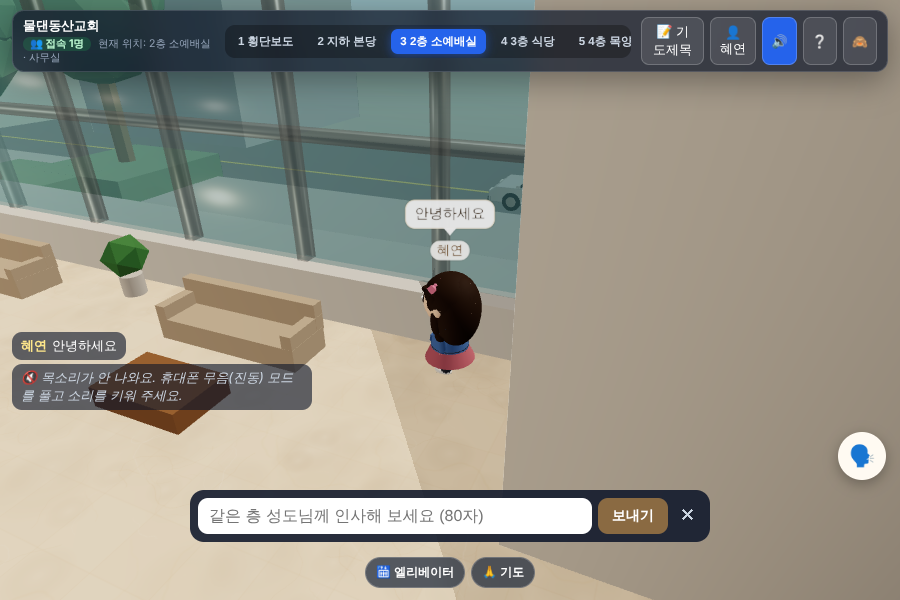
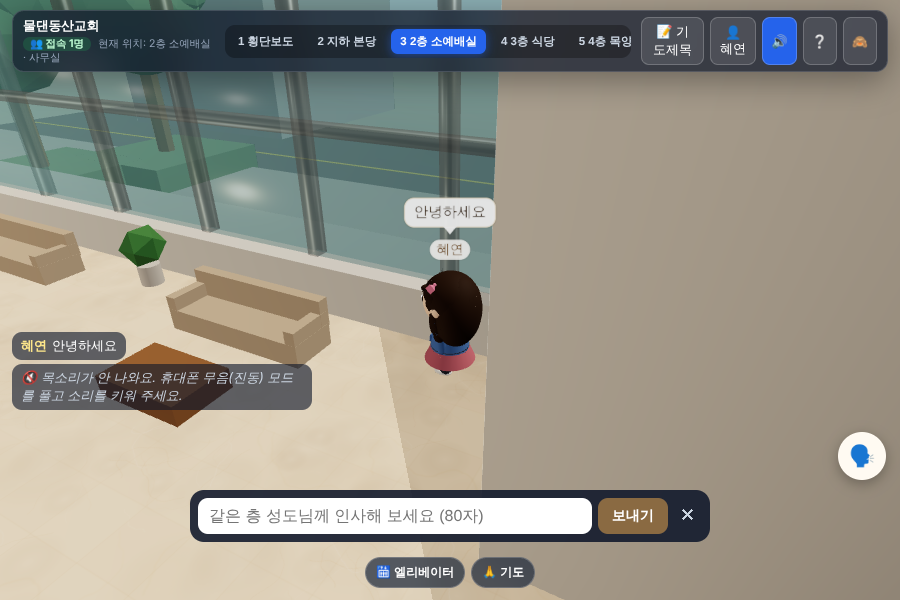
카카오톡에서 열면 자동으로 기본 브라우저로 넘김 (실패하면 한 번 다시 불러와 안내 단추)
Claude-Session: https://claude.ai/code/session_01Vz1QJf3UdmpjXu7m5EnhFF

diff --git a/index.html b/index.html
@@ -4,6 +4,24 @@
   <meta charset="UTF-8">
   <meta name="viewport" content="width=device-width, initial-scale=1.0, maximum-scale=1.0, user-scalable=no, viewport-fit=cover, interactive-widget=resizes-content">
   <title>물댄동산교회 가상 성전 메타버스 투어</title>
+  <script>
+    // 카카오톡 안에서 링크를 열면 목소리·마이크가 막혀서, 들어오자마자 기본 브라우저(크롬·사파리)로 넘김.
+    // 한 번만 시도(못 넘어가고 다시 돌아오면 화면 안 '브라우저로 열기' 단추로 안내).
+    (function () {
+      try {
+        if (!/KAKAOTALK/i.test(navigator.userAgent || '')) return;
+        if (sessionStorage.getItem('mdc_out_tried')) return;
+        sessionStorage.setItem('mdc_out_tried', '1'); window.__mdcOutTried = true;
+        location.href = 'kakaotalk://web/openExternal?url=' + encodeURIComponent(location.href);
+        // 못 넘어간 경우 이 화면의 나머지 불러오기가 끊길 수 있어서, 본 화면 코드가 안 돌았으면 한 번 다시 불러옴(이번엔 안 넘김)
+        var tries = 0, chk = setInterval(function () {
+          tries++;
+          if (window.__mdcMain || tries > 40) { clearInterval(chk); return; }
+          if (document.readyState === 'complete' && !document.hidden) { clearInterval(chk); location.reload(); }
+        }, 500);
+      } catch (e) {}
+    })();
+  </script>
   <style>
     * {
       box-sizing: border-box;
@@ -458,6 +476,7 @@
   </div>
 
   <script type="module">
+    window.__mdcMain = true;   // 본 화면 코드가 돌기 시작함 (카카오톡 넘기기 실패 확인용)
     import * as THREE from 'three'; window.__RC = THREE.Raycaster;
     import {GLTFLoader} from './vendor/three/loaders/GLTFLoader.js';
     import {OrbitControls} from './vendor/three/controls/OrbitControls.js';
@@ -3512,6 +3531,7 @@
       if (to) location.href = to; else sysLine('화면 아래(또는 위) ⋯ 메뉴에서 "Safari로 열기"를 눌러 주세요.');
     }
     Speak.outsideUrl = outsideUrl;
+    if (IN_APP) setTimeout(() => (Speak.told = Object.assign(Speak.told || {}, { unsupported: true })) && outsideLine(window.__mdcOutTried ? '🌐 브라우저로 열었어요. 안 열렸으면 단추를 눌러 주세요 (앱 안에서는 목소리가 안 나와요).' : '🌐 앱 안에서는 목소리가 안 나와요. 크롬·사파리로 열어 주세요.'), 2500);
     function outsideLine(text) {
       const d = document.createElement('div'); d.className = 'chat-line sys'; d.textContent = text;
       if (IN_APP || !Speak.ok) { const b = document.createElement('button'); b.textContent = '브라우저로 열기'; b.addEventListener('click', (e) => { e.stopPropagation(); openOutside(); }); d.appendChild(b); }

diff --git a/docs/verification/2026-11-06/REPORT.md b/docs/verification/2026-11-06/REPORT.md
@@ -26,3 +26,9 @@
 - 결과: 카카오톡(안드로이드) 흉내 → 🔇 단추·안내·브라우저로 열기 단추 ✅, 말이 시작되지 않음 → 무음 모드 안내 ✅, 정상 읽어주기(tts.cjs) 그대로 ✅, 페이지 오류 없음.
 
 ![](ttsfail-25.png)
+
+## 카카오톡에서 열면 자동으로 바깥 브라우저로 넘기기
+- 사용자 확인: 카카오톡 안에서 열면 목소리가 안 나오고, 바깥 브라우저로 열면 됨 → 카카오톡(UA에 `KAKAOTALK`)으로 들어오면 `<head>`에서 바로 `kakaotalk://web/openExternal?url=…`로 기본 브라우저(크롬·사파리)를 엶. 한 번만 시도(`sessionStorage.mdc_out_tried`).
+- 넘기기에 실패하면 그 화면의 나머지 불러오기가 끊기는 것을 시험에서 발견(크롬은 알 수 없는 주소로 이동을 시작하면 남은 스크립트를 멈춤) → 본 화면 코드(`window.__mdcMain`)가 안 돌았는데 불러오기가 끝났으면 한 번 다시 불러옴(이때는 넘기지 않음). 다시 불러온 화면은 정상 동작 + "앱 안에서는 목소리가 안 나와요" 안내와 **브라우저로 열기** 단추.
+- 결과: 넘기기 시도 → 실패 → 다시 불러옴 → 화면 정상·안내·단추 1개 ✅, 다시 불러와도 또 넘기지 않음 ✅, 카카오톡이 아닌 브라우저는 넘기지 않음 ✅, 정상 읽어주기 그대로 ✅, 페이지 오류 없음.
+- 실제 카카오톡 앱에서 넘어가는 모습은 이 컴퓨터에서 볼 수 없음 → 사이트에 올린 뒤 휴대폰으로 확인 필요.
